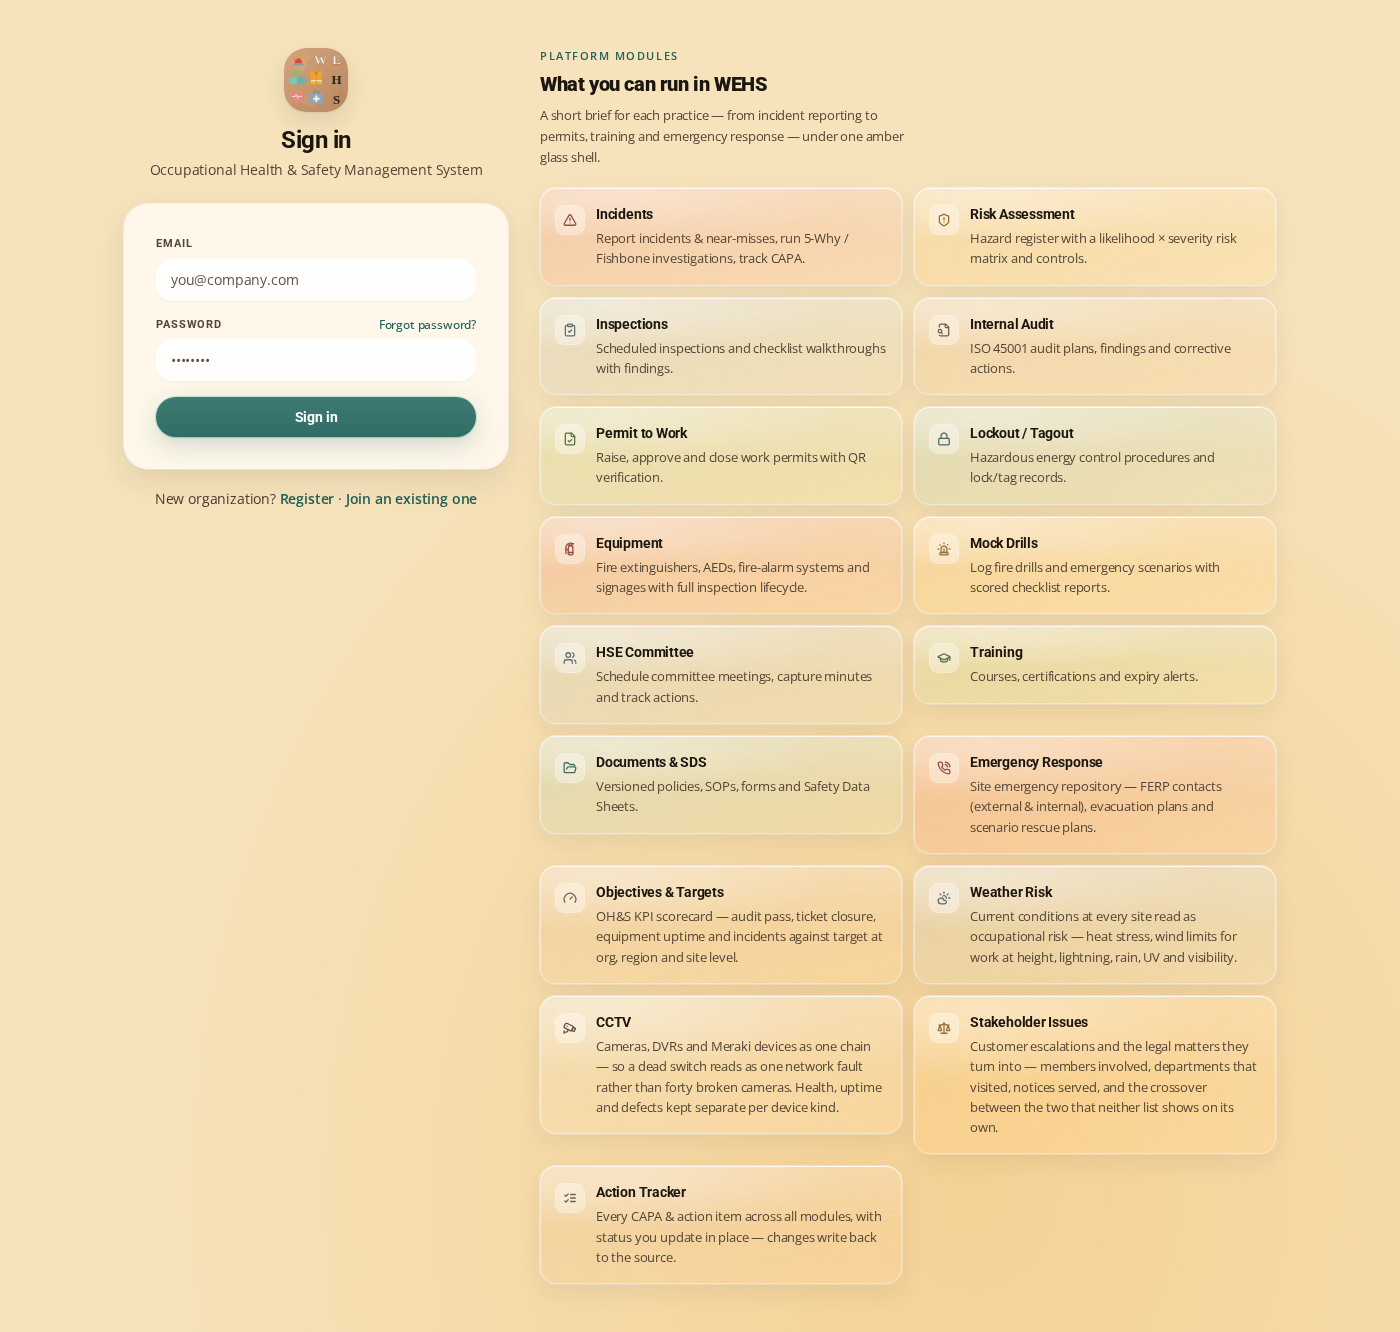
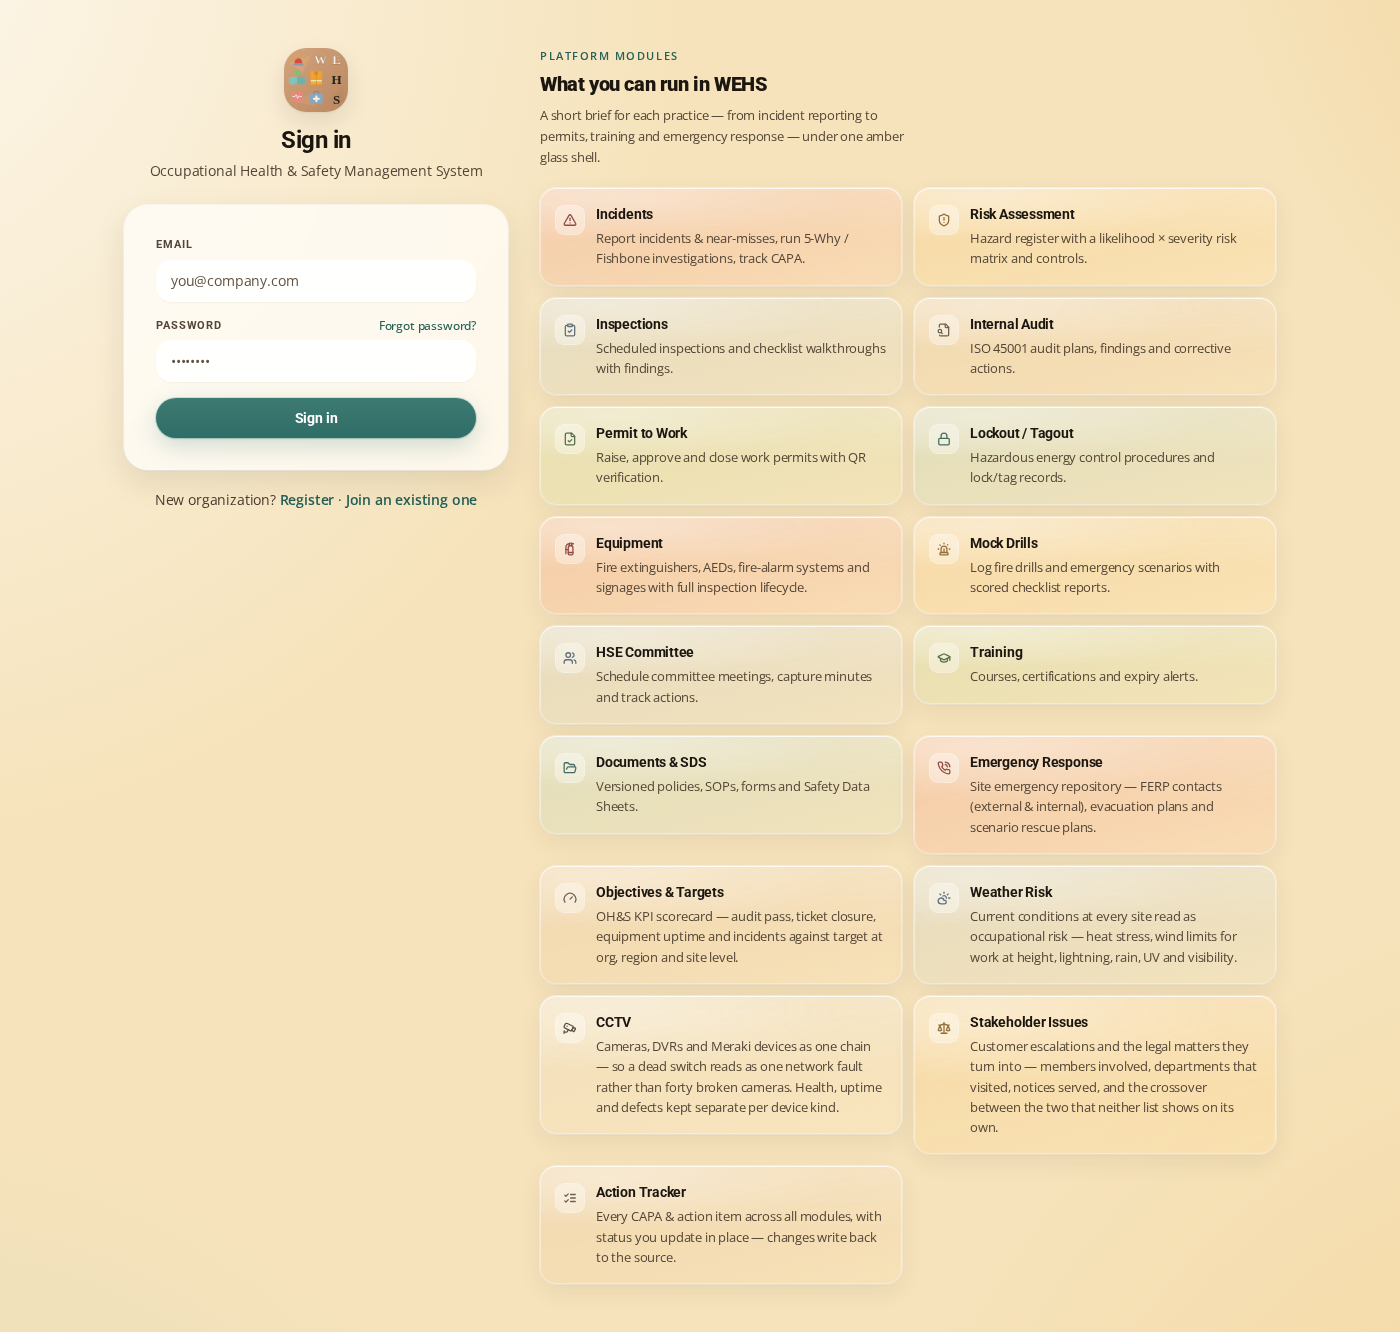
Polish login mobile layout for form + text briefs
Stack the showcase cleanly under the form on phones: tighter chrome, compact
BrandMark, hairline before modules, single-column briefs until md, smaller
icon accents, and 16px inputs to avoid iOS focus-zoom. Keep text-first briefs.

diff --git a/src/pages/auth/LoginModules.jsx b/src/pages/auth/LoginModules.jsx
@@ -8,6 +8,8 @@
 //
 // Layout is text-forward on purpose. An earlier pass put a large centred mark
 // above a short label and read as a logo gallery; the brief is the point here.
+// On phones: single column, compact padding, hairline under the form so the
+// stack stays readable without oversized marks.
 // ─────────────────────────────────────────────────────────────────────────────
 import { MODULES } from '../../shared/modules/registry'
 
@@ -18,18 +20,26 @@ function ModuleBrief({ tone, icon: Icon, label, description }) {
   return (
     <article
       data-tone={tone}
-      className="glass-tile relative flex items-start gap-3 rounded-2xl p-4 text-left"
+      className="glass-tile relative flex items-start gap-2.5 rounded-2xl p-3.5 text-left sm:gap-3 sm:p-4"
     >
       {/* Accent only — sized so it never competes with the brief. */}
       <span
-        className="mt-0.5 grid h-7 w-7 flex-none place-items-center rounded-lg bg-white/35 ring-1 ring-white/50"
+        className="mt-0.5 grid h-6 w-6 flex-none place-items-center rounded-md bg-white/35 ring-1 ring-white/50 sm:h-7 sm:w-7 sm:rounded-lg"
         aria-hidden="true"
       >
-        <Icon size={14} strokeWidth={2.2} className="block opacity-80" />
+        <Icon
+          size={14}
+          strokeWidth={2.2}
+          className="block size-[13px] opacity-80 sm:size-[14px]"
+        />
       </span>
       <div className="min-w-0 flex-1">
-        <h3 className="text-[14px] font-bold tracking-[-0.015em] text-ink-900">{label}</h3>
-        <p className="mt-1 text-[12.5px] leading-relaxed text-ink-500">{description}</p>
+        <h3 className="text-[13.5px] font-bold tracking-[-0.015em] text-ink-900 sm:text-[14px]">
+          {label}
+        </h3>
+        <p className="mt-1 break-words text-[12px] leading-relaxed text-ink-500 sm:text-[12.5px]">
+          {description}
+        </p>
       </div>
     </article>
   )
@@ -37,21 +47,26 @@ function ModuleBrief({ tone, icon: Icon, label, description }) {
 
 export default function LoginModules() {
   return (
-    <section aria-labelledby="login-modules-heading" className="min-w-0">
+    <section
+      aria-labelledby="login-modules-heading"
+      className="min-w-0 border-t border-ink-200/70 pt-6 lg:border-t-0 lg:pt-0"
+    >
       <p className="text-[11px] font-semibold uppercase tracking-[0.14em] text-brand-700">
         Platform modules
       </p>
       <h2
         id="login-modules-heading"
-        className="mt-1 text-[20px] font-extrabold tracking-[-0.02em] text-ink-900"
+        className="mt-1 text-[18px] font-extrabold tracking-[-0.02em] text-ink-900 sm:text-[20px]"
       >
         What you can run in WEHS
       </h2>
-      <p className="mt-1.5 max-w-[52ch] text-[13px] leading-relaxed text-ink-500">
+      <p className="mt-1.5 max-w-[52ch] text-[12.5px] leading-relaxed text-ink-500 sm:text-[13px]">
         A short brief for each practice — from incident reporting to permits,
         training and emergency response — under one amber glass shell.
       </p>
-      <ul className="mt-5 grid list-none gap-3 p-0 sm:grid-cols-2">
+      {/* Single column on phones; two columns only once there is real width
+          (md), so briefs stay readable instead of squashed side-by-side. */}
+      <ul className="mt-4 grid list-none gap-2.5 p-0 sm:mt-5 sm:gap-3 md:grid-cols-2">
         {MODULES.map((m) => (
           <li key={m.key}>
             <ModuleBrief

diff --git a/src/pages/auth/AuthLayout.jsx b/src/pages/auth/AuthLayout.jsx
@@ -7,26 +7,39 @@ import BrandMark from '../../shared/branding/BrandMark'
  * `showcase` is the optional right-hand / below column — the sign-in page uses
  * it for the module roster. Other auth routes stay the narrow centred card so
  * a password reset is not buried under seventeen glass tiles.
+ *
+ * On a phone the showcase stacks under the form: tighter chrome and a hairline
+ * before the briefs so the long module list does not feel glued to the card.
  */
 export default function AuthLayout({ title, subtitle, children, footer, showcase }) {
   const reduce = useReducedMotion()
   const brand = (
-    <div className="mb-6 flex flex-col items-center text-center">
-      <BrandMark className="mb-3" alt="WEHS" />
-      <h1 className="text-2xl font-bold tracking-[-0.02em] text-ink-900">{title}</h1>
-      {subtitle && <p className="mt-1 text-sm text-ink-500">{subtitle}</p>}
+    <div className="mb-4 flex flex-col items-center px-1 text-center sm:mb-6">
+      <BrandMark className="mb-2.5 sm:mb-3" size="lg" alt="WEHS" />
+      <h1 className="text-[22px] font-bold tracking-[-0.02em] text-ink-900 sm:text-2xl">
+        {title}
+      </h1>
+      {subtitle && (
+        <p className="mt-1 max-w-[28ch] text-[13px] leading-snug text-ink-500 sm:max-w-none sm:text-sm sm:leading-normal">
+          {subtitle}
+        </p>
+      )}
     </div>
   )
   const panel = (
     <>
       {brand}
-      <div className="card p-6 sm:p-8">{children}</div>
-      {footer && <div className="mt-5 text-center text-sm text-ink-600">{footer}</div>}
+      <div className="card p-5 sm:p-8">{children}</div>
+      {footer && (
+        <div className="mt-4 px-1 text-center text-[13px] leading-relaxed text-ink-600 sm:mt-5 sm:text-sm">
+          {footer}
+        </div>
+      )}
     </>
   )
 
   return (
-    <div className="aurora min-h-screen px-4 py-8 sm:py-12">
+    <div className="aurora min-h-screen px-3.5 pb-10 pt-6 sm:px-4 sm:py-12">
       <motion.div
         className={`mx-auto w-full ${showcase ? 'max-w-6xl' : 'max-w-md'}`}
         initial={reduce ? { opacity: 0 } : { opacity: 0, y: 12, scale: 0.98 }}
@@ -34,7 +47,7 @@ export default function AuthLayout({ title, subtitle, children, footer, showcase
         transition={{ duration: 0.35, ease: [0.23, 1, 0.32, 1] }}
       >
         {showcase ? (
-          <div className="grid gap-8 lg:grid-cols-[minmax(18rem,24rem)_minmax(0,1fr)] lg:items-start">
+          <div className="grid gap-7 sm:gap-8 lg:grid-cols-[minmax(18rem,24rem)_minmax(0,1fr)] lg:items-start">
             <div className="mx-auto w-full max-w-md lg:mx-0 lg:sticky lg:top-8">{panel}</div>
             {showcase}
           </div>

diff --git a/src/pages/auth/LoginModules.test.jsx b/src/pages/auth/LoginModules.test.jsx
@@ -18,6 +18,10 @@ describe('LoginModules', () => {
     const { container } = render(<LoginModules />)
     const tiles = container.querySelectorAll('.glass-tile')
     expect(tiles.length).toBe(MODULES.length)
+    const list = container.querySelector('ul')
+    // Narrow phones stay single-column; two columns only from md up.
+    expect(list.className).toMatch(/md:grid-cols-2/)
+    expect(list.className).not.toMatch(/(?:^|\s)sm:grid-cols-2(?:\s|$)/)
     tiles.forEach((tile) => {
       // Text-forward: left-aligned row, not a centred logo stack.
       expect(tile.className).toMatch(/items-start/)
@@ -25,11 +29,11 @@ describe('LoginModules', () => {
       expect(tile.className).not.toMatch(/items-center/)
       expect(tile.className).not.toMatch(/text-center/)
       expect(tile.className).not.toMatch(/min-h-\[152px\]/)
-      const accent = tile.querySelector('.h-7.w-7, [class*="h-7"][class*="w-7"]')
+      const accent = tile.querySelector('[class*="h-6"][class*="w-6"]')
       expect(accent).toBeTruthy()
-      const icon = accent.querySelector('svg')
-      // lucide size={14} → width/height 14 on the svg
-      expect(icon?.getAttribute('width')).toBe('14')
+      const icons = accent.querySelectorAll('svg')
+      expect(icons.length).toBe(1)
+      expect(icons[0].getAttribute('width')).toBe('14')
       const brief = tile.querySelector('p')
       expect(brief?.textContent?.length).toBeGreaterThan(20)
     })

diff --git a/src/pages/auth/Login.jsx b/src/pages/auth/Login.jsx
@@ -239,6 +239,8 @@ export default function Login() {
             value={form.email}
             onChange={(e) => setForm({ ...form, email: e.target.value })}
             placeholder="you@company.com"
+            // 16px on phones avoids iOS focus-zoom; sm+ keeps the denser auth type.
+            className="text-base sm:text-sm"
           />
         </Field>
         <Field
@@ -261,6 +263,7 @@ export default function Login() {
             value={form.password}
             onChange={(e) => setForm({ ...form, password: e.target.value })}
             placeholder="••••••••"
+            className="text-base sm:text-sm"
           />
         </Field>
         <Button type="submit" loading={busy} className="w-full">

diff --git a/src/shared/branding/BrandMark.test.jsx b/src/shared/branding/BrandMark.test.jsx
@@ -21,4 +21,10 @@ describe('BrandMark', () => {
     const { container } = render(<BrandMark alt="" />)
     expect(container.querySelector('img').getAttribute('aria-hidden')).toBe('true')
   })
+
+  it('uses a compact disc on phones and full size from sm up', () => {
+    const { container } = render(<BrandMark alt="WEHS" />)
+    expect(container.firstChild.className).toMatch(/h-12/)
+    expect(container.firstChild.className).toMatch(/sm:h-16/)
+  })
 })

diff --git a/src/shared/branding/BrandMark.jsx b/src/shared/branding/BrandMark.jsx
@@ -12,7 +12,8 @@ import { WE_EHS_MARK } from './OrgMark'
 const SIZE = {
   sm: 'h-10 w-10 rounded-2xl',
   md: 'h-12 w-12 rounded-[18px]',
-  lg: 'h-16 w-16 rounded-[22px]',
+  // Phone: compact so the mark does not crowd the form; sm+: full auth size.
+  lg: 'h-12 w-12 rounded-[18px] sm:h-16 sm:w-16 sm:rounded-[22px]',
 }
 
 /**
